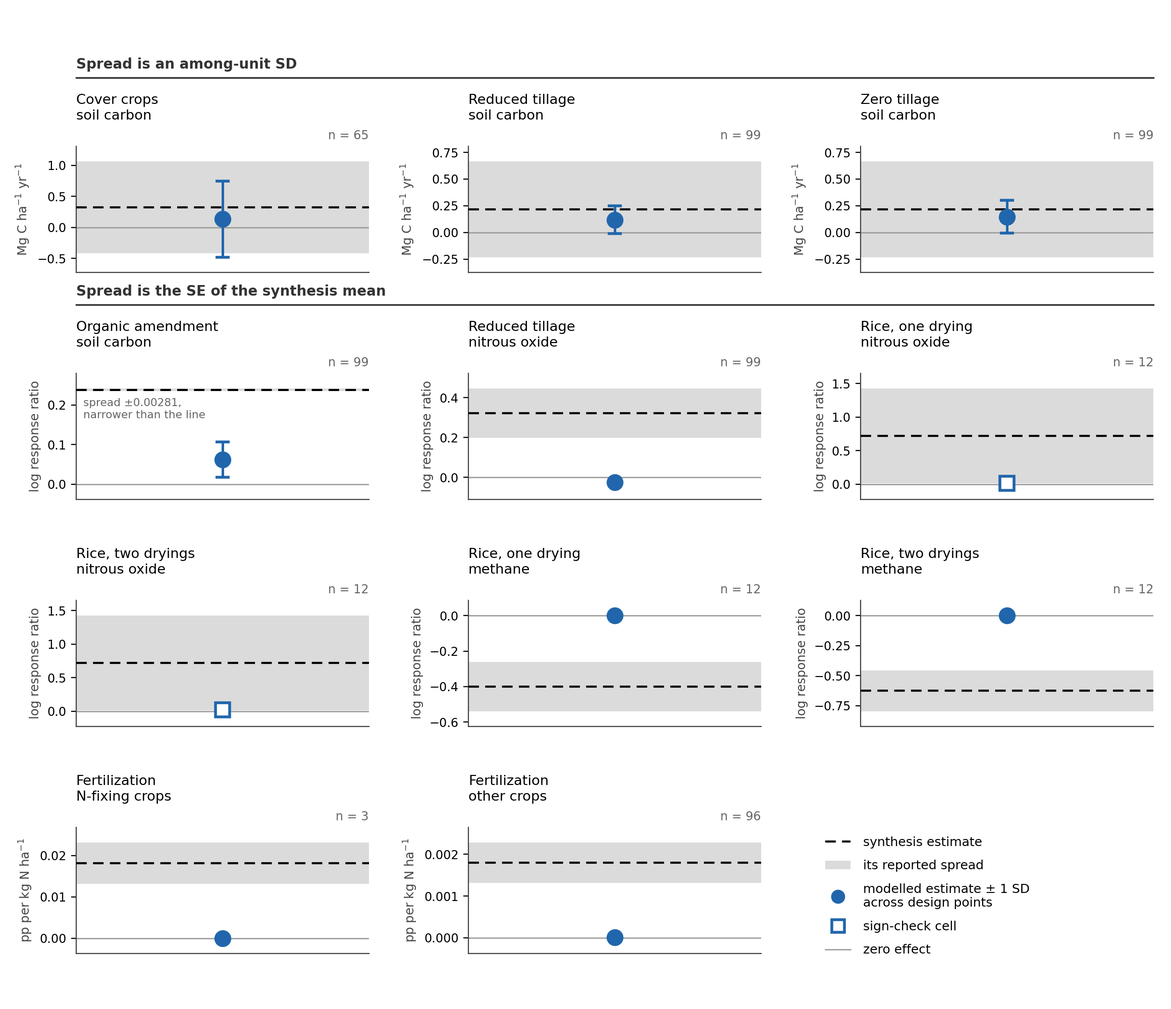
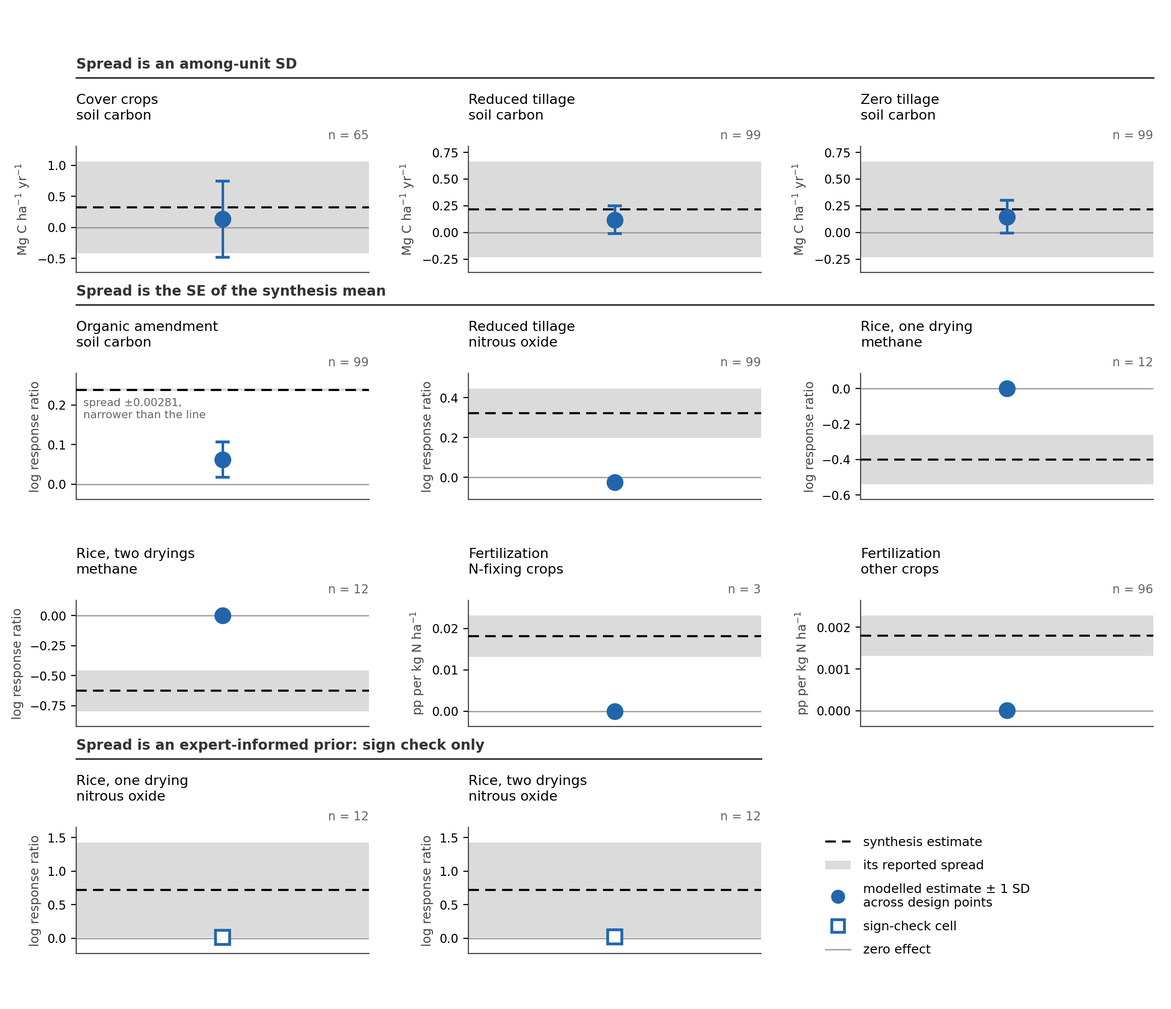
Built site for gh-pages

diff --git a/reports/statewide_effects.html b/reports/statewide_effects.html
@@ -6,7 +6,7 @@
 
 <meta name="viewport" content="width=device-width, initial-scale=1.0, user-scalable=yes">
 
-<meta name="dcterms.date" content="2026-09-21">
+<meta name="dcterms.date" content="2026-09-23">
 
 <title>Calibration - Statewide Management Treatment Effect Benchmark</title>
 <style>
@@ -163,7 +163,6 @@ ul.task-list li input[type="checkbox"] {
 <header id="title-block-header" class="quarto-title-block default">
 <div class="quarto-title">
 <h1 class="title d-none d-lg-block">Statewide Management Treatment Effect Benchmark</h1>
-<p class="subtitle lead">MAGiC Modeling Framework (Task 2) – supporting report</p>
 </div>
 
 
@@ -174,7 +173,7 @@ ul.task-list li input[type="checkbox"] {
     <div>
     <div class="quarto-title-meta-heading">Published</div>
     <div class="quarto-title-meta-contents">
-      <p class="date">September 21, 2026</p>
+      <p class="date">September 23, 2026</p>
     </div>
   </div>
   
@@ -188,8 +187,9 @@ ul.task-list li input[type="checkbox"] {
 <h2 class="anchored" data-anchor-id="overview">Overview</h2>
 <p>This report compares modelled management practice effects at the statewide cropland design points against effects summarised from the published literature, and records which comparisons the model can and cannot presently support.</p>
 <p>It is a forward comparison at fixed parameters. No parameter was adjusted to any target here, no evidence was weighted into a likelihood, and no inventory estimate is produced. The site-level parameter calibration is reported separately; this report carries that parameterization forward to the statewide design points and asks whether the resulting practice effects are consistent with the synthesis evidence.</p>
-<p>We ran six management practices as paired treatment and reference arms at 99 design points over 2016 to 2023, covering soil carbon, nitrous oxide and methane. Thirteen practice-by-outcome cells carry a synthesis estimate. Eleven of them have a modelled estimate to compare against it; the other two have no runnable treatment pair.</p>
-<p>The result divides cleanly by outcome. <strong>Soil carbon responds to all three carbon-adding practices, in the right direction and at roughly half the reported magnitude. The greenhouse gas cells are near zero, of the wrong sign, or produce no response at all.</strong> Most of the gas discrepancies can be traced to the model formulation rather than to parameter values, which is the most useful thing this benchmark tells us: they will not be resolved by recalibration.</p>
+<p>We ran five management practices as paired treatment and reference arms at 99 design points over 2016 to 2023, covering soil carbon, nitrous oxide and methane. A sixth, conversion from annual to perennial cropping, carries a target but has no arm in the event package and was not run.</p>
+<p>The target table holds 18 usable rows. Eleven of them are represented here across thirteen scored rows, since tillage soil carbon and rice nitrous oxide each carry two arms against one target. Eleven of the thirteen are compared against their target. Of the other two, the annual-to-perennial row has no runnable treatment pair, and the Mediterranean emission factor level is reported without a discrepancy because the modelled quantity is only an upper bound on what that target measures. Of the seven rows not represented, four are the finer fertilization crop classes set aside in favour of the nitrogen-fixing split and three are rice drying classes that were not staged.</p>
+<p>The result divides cleanly by outcome. <strong>Soil carbon responds in every cell tested, in the right direction: cover cropping and the two tillage practices at roughly half the reported magnitude, the organic amendment at about a quarter. The greenhouse gas cells are near zero, of the wrong sign, or produce no response at all.</strong> Most of the gas discrepancies can be traced to the model formulation rather than to parameter values, which is the most useful thing this benchmark tells us: they will not be resolved by recalibration.</p>
 <section id="summary-of-findings" class="level3">
 <h3 class="anchored" data-anchor-id="summary-of-findings">Summary of findings</h3>
 <table class="table">
@@ -222,9 +222,9 @@ ul.task-list li input[type="checkbox"] {
 </tr>
 <tr class="odd">
 <td>Nitrous oxide, tillage</td>
-<td>Wrong sign</td>
-<td>Model lowers N<sub>2</sub>O at all 99 design points against a positive synthesis estimate; tillage enters only as a respiration multiplier</td>
-<td>Review the tillage N<sub>2</sub>O pathway; a physical mechanism is required</td>
+<td>Wrong sign for the class matched</td>
+<td>Model lowers N<sub>2</sub>O at all 99 design points against the under-10-year estimate of +0.322 this cell is matched to. van Kessel reports −0.419 at 10 years or more, so the sign agrees with the long-duration class</td>
+<td>Name the adoption age matched; review the tillage N<sub>2</sub>O pathway</td>
 </tr>
 <tr class="even">
 <td>Nitrous oxide, fertilization</td>
@@ -245,10 +245,16 @@ ul.task-list li input[type="checkbox"] {
 <td>Represent flooding and draining explicitly; the prescribed drying never dries the soil</td>
 </tr>
 <tr class="odd">
-<td>Methane, tillage; annual to perennial</td>
+<td>Methane, tillage</td>
+<td>Out of scope, not absent</td>
+<td>The arm exists and the model responds: at the twelve rice-soil design points zero tillage raises methane, median log ratio +0.011, against a reported −0.6 uptake enhancement. Methane was scoped to rice systems, so the target is not in use</td>
+<td>Score it if methane scope is ever widened beyond rice</td>
+</tr>
+<tr class="even">
+<td>Soil carbon, annual to perennial</td>
 <td>No runnable pair</td>
-<td>The event package contains no arm expressing these treatments</td>
-<td>Stage the arms, or record the cells as out of scope for this matrix</td>
+<td>The event package contains no arm expressing this conversion</td>
+<td>Stage the arm, or record the cell as out of scope for this matrix</td>
 </tr>
 </tbody>
 </table>
@@ -288,11 +294,11 @@ ul.task-list li input[type="checkbox"] {
 </tr>
 <tr class="even">
 <td>design points</td>
-<td>99</td>
+<td>99 scored of 100 designed</td>
 </tr>
 <tr class="odd">
 <td>runs</td>
-<td>958 arm runs forming 683 eligible pairs</td>
+<td>958 arm runs forming 683 eligible pairs of 690 designed</td>
 </tr>
 <tr class="even">
 <td>parameters</td>
@@ -304,8 +310,8 @@ ul.task-list li input[type="checkbox"] {
 </tr>
 </tbody>
 </table>
-<p>Photosynthesis optimum, soil organic matter respiration rate, litter breakdown rate, the fraction of litter respired, the soil respiration temperature sensitivity, the carbon-to-nitrogen decomposition constant and the anaerobic transfer exponent are run-level and pinned in the run configuration. They are written into the default parameter file and dropped from the trait samples, so a plant functional type posterior cannot overwrite them. All 958 arm runs therefore carry identical parameter values.</p>
-<p>Of the 683 pairs, 495 are prepared from the management record directly and 188 are prepared with stated assumptions where the record was incomplete. Every pair passed the pairing check.</p>
+<p>Photosynthesis optimum, soil organic matter respiration rate, litter breakdown rate, the fraction of litter respired, the soil respiration temperature sensitivity, the carbon-to-nitrogen decomposition constant and the anaerobic transfer exponent are run-level and pinned in the run configuration. They are written into the default parameter file and dropped from the trait samples, so a plant functional type posterior cannot overwrite them. All 958 arm runs therefore carry identical values for those seven. The remaining traits are plant functional type medians and do vary across design points: the panel spans six vegetation types, of which almond covers 69 design points and annual row crops 14, and three soil types, of which 85 points are the generic soil and 12 the rice soil. Within any one pair every parameter is identical, which is what the paired design requires.</p>
+<p>One design point of the 100 was dropped before configuration because its initial conditions carried no usable pools, removing 10 arm runs and 7 pairs. Of the 683 pairs that remain, 495 are prepared from the management record directly and 188 are prepared with stated assumptions where the record was incomplete. Every remaining pair passed the pairing check.</p>
 </section>
 <section id="relationship-to-the-site-level-calibration" class="level3">
 <h3 class="anchored" data-anchor-id="relationship-to-the-site-level-calibration">Relationship to the site-level calibration</h3>
@@ -357,7 +363,7 @@ ul.task-list li input[type="checkbox"] {
 <p>Three things are visible here that the aggregate alone conceals.</p>
 <p><strong>The distributions are right-skewed, so the mean sits above the median in every soil carbon cell.</strong> Cover crops have a median of 0.041 against an aggregate of 0.132; zero tillage a median of 0.102 against an aggregate of 0.146. The aggregate is carried by a minority of strongly responding design points while the typical design point responds far less. Reporting the aggregate alone would overstate how uniformly the model produces a cover crop effect.</p>
 <p><strong>The sign is consistent almost everywhere.</strong> Cover crops are positive at 97 percent of design points, and the organic amendment and both tillage soil carbon cells at 100 percent. Reduced tillage nitrous oxide is negative at every one of its 99 design points, with the largest value −0.0055, so the disagreement with the positive synthesis estimate is not caused by averaging positive and negative site responses.</p>
-<p><strong>The rice methane rows are a spike at zero.</strong> Median and both quartiles are exactly zero for both cells. The two arms are bit-identical in every year at 9 of 12 design points for a single drying and 8 of 12 for two dryings.</p>
+<p><strong>The rice methane rows are a spike at zero.</strong> Median and both quartiles are exactly zero for both cells. The scored quantity is the flooded-season total, and the two arms give an identical season total at 9 of 12 design points for a single drying and 8 of 12 for two dryings. Taking the whole year rather than the flooded season, the arms are bit-identical in every year at 7 and 6 of 12.</p>
 </section>
 <section id="benchmark-coverage" class="level3">
 <h3 class="anchored" data-anchor-id="benchmark-coverage">Benchmark coverage</h3>
@@ -368,7 +374,9 @@ ul.task-list li input[type="checkbox"] {
 </figure>
 </div>
 <p>A model that runs and returns no response has <strong>failed</strong> the check it was set; it has not escaped it, and further investigation is warranted. The figure draws that case in the failure colour rather than greying it out. The two rice methane cells are the instance, and they matter more than their size suggests: the response of methane to alternate wetting and drying in rice is the outcome this part of the evidence set was assembled to test.</p>
-<p>Two cells are genuinely empty rather than failing. Reduced tillage on methane and the annual-to-perennial conversion have no runnable treatment pair, so there is no modelled estimate to place. Three fertilization contrast arms were run and produced effects, but the evidence table contains no fertilization contrast target for them to be scored against; they are retained in the run outputs and left unscored.</p>
+<p>One cell is genuinely empty rather than failing. The annual-to-perennial conversion has no runnable treatment pair, so there is no modelled estimate to place.</p>
+<p>Tillage on methane is a different case and should not be read as empty. The zero tillage arm is the same one scoring the tillage soil carbon and nitrous oxide cells, and the model does respond: methane in SIPNET is a rate times the soil carbon pool times temperature and moisture terms, and tillage acts on that pool through heterotrophic respiration. Methane is non-zero only at the twelve rice-soil design points, and at those twelve zero tillage raises it, log ratios of +0.005 to +0.021 with a median of +0.011, against a reported −0.6 which is an uptake enhancement. The cell is out of scope because methane was scoped to rice systems, and its target row is marked not for use; it is not a cell the model failed to reach.</p>
+<p>The three fertilization contrast arms were run and produced effects, and they are scored jointly rather than individually: the target is the slope of the emission factor against nitrogen rate, formed across the arms, so no single arm carries a target of its own. Appendix A reports that slope for the nitrogen-fixing and other crop classes.</p>
 </section>
 <section id="how-the-differences-develop" class="level3">
 <h3 class="anchored" data-anchor-id="how-the-differences-develop">How the differences develop</h3>
@@ -378,7 +386,7 @@ ul.task-list li input[type="checkbox"] {
 <p></p><figcaption class="figure-caption">Figure&nbsp;5: Paired difference at every design point, three representative cells. The upper strip gives the share of design points whose two arms differ in that year, read from the event files, so it shows when a difference can move at all. Below, each thin line is one design point’s treatment minus reference arm; the heavy line is the median and the band the interquartile range.</figcaption><p></p>
 </figure>
 </div>
-<p>The exposure strip explains a good deal. <strong>Cover crop exposure is not uniform across the window</strong>: 34 percent of design points carry a cover crop in 2016, rising to 80 percent by 2022, with a median of 6 cover years per design point and a range of 1 to 8. The soil carbon difference is correspondingly flat through 2016 to 2018 and separates from zero only as exposure rises. Rice drying never exceeds 67 percent of its design points in any year. Zero tillage is the only practice applied at every design point in every year, which is why its nitrous oxide response is the tightest bundle in the figure.</p>
+<p>The exposure strip explains a good deal. <strong>Cover crop exposure is not uniform across the window</strong>: 34 percent of its design points carry a cover crop in 2016, rising to 80 percent by 2022, with a median of 6 cover years per design point and a range of 1 to 8. The soil carbon difference is correspondingly flat through 2016 to 2018 and separates from zero only as exposure rises. Rice drying never exceeds 67 percent of its design points in any year. Cover cropping and rice drying are the only practices with uneven exposure; both tillage arms, all three fertilization arms and the organic amendment differ from their reference at every design point in every year, which is why the zero tillage nitrous oxide response is the tightest bundle in the figure.</p>
 </section>
 </section>
 <section id="interpretation" class="level2">
@@ -416,7 +424,7 @@ ul.task-list li input[type="checkbox"] {
 <tr class="even">
 <td>reduced tillage N<sub>2</sub>O</td>
 <td>indirect respiration effect only</td>
-<td>produced with the wrong sign</td>
+<td>negative everywhere; wrong sign for the under-10-year class matched</td>
 </tr>
 <tr class="odd">
 <td>fertilization N<sub>2</sub>O emission factor</td>
@@ -424,20 +432,25 @@ ul.task-list li input[type="checkbox"] {
 <td>target response not generated</td>
 </tr>
 <tr class="even">
+<td>tillage methane</td>
+<td>rate times soil carbon, no direct tillage term</td>
+<td>responds through the soil carbon pool, opposite in sign; cell out of scope</td>
+</tr>
+<tr class="odd">
 <td>rice N<sub>2</sub>O</td>
 <td>mineral nitrogen and moisture</td>
 <td>direction reproduced, magnitude small</td>
 </tr>
-<tr class="odd">
+<tr class="even">
 <td>rice methane</td>
 <td>moisture-gated methane production</td>
 <td>no response; check fails</td>
 </tr>
 </tbody>
 </table>
-<p><strong>Soil carbon responds; the gases do not.</strong> All three carbon-adding practices raise modelled soil carbon in the right direction. Every nitrous oxide and methane cell is near zero, of the wrong sign, or a null. The failures are concentrated on one side of the model.</p>
+<p><strong>Soil carbon responds; the gases do not.</strong> All four soil carbon cells move in the direction the evidence reports. Every nitrous oxide and methane cell is near zero, of the wrong sign, or a null. The failures are concentrated on one side of the model.</p>
 <p><strong>The amendment cell restates the calibration residual.</strong> Amendment carbon enters SIPNET as fresh litter, with no partition to a more persistent soil pool. The site-level calibration identified the same pathway; the statewide benchmark reproduces the limitation at a larger scale, and the same model change addresses both.</p>
-<p><strong>Tillage nitrous oxide is a mechanism problem.</strong> Tillage enters as a multiplier on heterotrophic respiration. There is no compaction, pore-space or oxygen-transport pathway through which reduced tillage could raise denitrification, which is why the modelled effect is small and of the wrong sign at every design point. The consistency across all 99 design points confirms this is structural rather than a parameter artefact.</p>
+<p><strong>Tillage nitrous oxide is a mechanism problem.</strong> Tillage enters as a multiplier on heterotrophic respiration. There is no compaction, pore-space or oxygen-transport pathway through which reduced tillage could raise denitrification, which is why the modelled effect is small and negative at every design point. The cell is matched to the under-10-year adoption class, because the runs sit roughly five years after conversion, and that class reports +0.322. van Kessel finds the response flips with duration and gives −0.419 for 10 years or more, so the modelled sign agrees with the long-duration class and the disagreement is with the class we matched. Either way the magnitude is an order of magnitude short, and the consistency across all 99 design points confirms this is structural rather than a parameter artefact.</p>
 <p><strong>The fertilization dose-response cannot be produced.</strong> Nitrous oxide is first order in the mineral nitrogen pool, so induced emissions are proportional to nitrogen applied and the emission factor is constant in nitrogen rate. The synthesis estimate is a rise of the emission factor with rate. Adjusting the existing parameter cannot generate that; an additional nonlinear mechanism would be required.</p>
 <p><strong>Rice methane is a water balance result, not evidence about drying.</strong> The prescribed drying events do not produce a realized loss of saturation. Soil moisture stays above water holding capacity throughout the window in both arms, with a minimum of 1.02 times capacity, so the clipped water fraction is one and the anaerobic index sits at its ceiling in the drying arm exactly as in the irrigated reference. The methane moisture response is that index raised to the anaerobic transition exponent, and one raised to any exponent is one, so no value of that exponent can recover a contrast. Two thirds to three quarters of rice design points returned an effect of exactly zero. This should be read as the comparison not having been made, and as a check the model failed, rather than as evidence that drying events do not affect methane.</p>
 <p><strong>Aggregating first matters.</strong> Because the model side is summarised before comparison, a cell can agree in aggregate while the underlying site distribution is wide or skewed. The cover crop cell agrees with its target and is simultaneously the least uniform cell in the matrix.</p>
@@ -447,12 +460,12 @@ ul.task-list li input[type="checkbox"] {
 <ol type="1">
 <li>This is a single ensemble member at the parameter medians. The spread reported per cell is variation across design points at fixed parameters and contains no parameter uncertainty, so no uncertainty statement about practice effects should be taken from it.</li>
 <li>Nitrous oxide and methane outputs are uncalibrated. No nitrogen or methane parameter was estimated in the site-level calibration, and most of the scored cells are gas cells.</li>
-<li>The reported nitrous oxide quantity is total mineral nitrogen volatilization rather than a partitioned N<sub>2</sub>O flux, so its absolute level is not comparable with a measured emission factor. The dose-response result is a ratio and is unaffected. The induced emission factor has not equilibrated over the window, rising through to the final year without reaching a plateau.</li>
+<li>The reported nitrous oxide quantity is total mineral nitrogen volatilization rather than a partitioned N<sub>2</sub>O flux, so its absolute level is not comparable with a measured emission factor. The dose-response result is a ratio, and is unaffected only if the N<sub>2</sub>O share of volatilization does not itself change with nitrogen rate; if that share varies with rate, a real N<sub>2</sub>O dose response could exist while the quantity computed here stays flat. This assumption is untested and the fertilization conclusion rests on it. For the same reason the modelled emission factor level is an upper bound on the measured quantity, so the Mediterranean emission factor row is reported without a discrepancy: a bound lying above the target settles nothing. The induced emission factor has not equilibrated over the window, rising through to the final year without reaching a plateau.</li>
 <li>The soil carbon parameters come from a single field trial in one cropping system. Applying them across the full range of California cropland is extrapolation.</li>
 <li>Targets are global syntheses, not California-specific. The organic amendment target is partly comparable at best, and for the fertilization cells the published crop classes match this panel poorly, since most fertilized design points are orchard or pasture and the N-fixing class carries only three.</li>
 <li>Agreement in a cell is agreement of aggregates. Per-site effects vary widely, and in the cover crop cell the aggregate is not representative of the typical design point.</li>
-<li>Tillage soil carbon and both rice outcomes each map two arms onto one target cell. Those rows share a target and are not independent estimates of it.</li>
-<li>Two cells returned no usable comparison. Absence of a result there is not evidence of agreement.</li>
+<li>Tillage soil carbon and rice nitrous oxide each map two arms onto one target cell. Those rows share a target and are not independent estimates of it. The two rice methane arms are matched to different drying classes and do not share a target.</li>
+<li>One cell, the annual-to-perennial conversion, returned no usable comparison. Absence of a result there is not evidence of agreement.</li>
 <li>No site in the companion site-level dataset carries both soil carbon and a greenhouse gas flux at useful density, so a parameter set that reproduces soil carbon has not been tested against methane in the same system. There is no measured practice contrast anywhere in the Delta and none under rice, which is precisely where this synthesis evidence carries the weight.</li>
 </ol>
 </section>
@@ -476,7 +489,7 @@ ul.task-list li input[type="checkbox"] {
 </section>
 <section id="appendix-a.-scorecard" class="level2">
 <h2 class="anchored" data-anchor-id="appendix-a.-scorecard">Appendix A. Scorecard</h2>
-<p>All thirteen rows of the scored target table, including the cells with no runnable pair and the cell not scored. The standardised discrepancy must be read together with what the spread describes. Rows shaded grey fail the check: a discrepancy beyond two spreads, a model that runs and returns no response, or no runnable pair.</p>
+<p>The thirteen scored rows, plus the tillage methane row, which is recorded but is not a target. The standardised discrepancy must be read together with what the spread describes, and the last column states the outcome of each check: a discrepancy beyond two spreads, a model that runs and returns no response, no runnable pair, or a comparison the reported quantity cannot support.</p>
 <table class="table">
 <colgroup>
 <col style="width: 9%">
@@ -637,14 +650,25 @@ ul.task-list li input[type="checkbox"] {
 </tr>
 <tr class="odd">
 <td>Reduced tillage × CH<sub>4</sub></td>
-<td>not scored</td>
+<td>not a target</td>
 <td style="text-align: right;">−0.600</td>
 <td style="text-align: right;">0.100</td>
 <td>SE of the synthesis mean</td>
+<td style="text-align: right;">+0.011</td>
 <td style="text-align: right;">–</td>
+<td style="text-align: right;">12</td>
+<td>out of scope; methane scoped to rice</td>
+</tr>
+<tr class="even">
+<td>Fertilization × N<sub>2</sub>O, EF level</td>
+<td>not comparable</td>
+<td style="text-align: right;">0.500</td>
+<td style="text-align: right;">0.0612</td>
+<td>SE of the synthesis mean</td>
+<td style="text-align: right;">3.57</td>
 <td style="text-align: right;">–</td>
-<td style="text-align: right;">0</td>
-<td>no runnable pair</td>
+<td style="text-align: right;">99</td>
+<td>model side is an upper bound</td>
 </tr>
 </tbody>
 </table>
@@ -653,7 +677,9 @@ ul.task-list li input[type="checkbox"] {
 <h2 class="anchored" data-anchor-id="references">References</h2>
 <p>Jiang, Y., et al.&nbsp;(2019). Water management to mitigate the global warming potential of rice systems. <em>Global Change Biology</em>.</p>
 <p>Longfritz, M., Sacks, W. J., Moore, D. J. P., Zobitz, J. M., Braswell, B. H., Schimel, D. S., Kooper, R., Dietze, M. C., Fer, I., Black, C., and LeBauer, D. S. (2026). SIPNET: Simple Photosynthesis and Evapotranspiration Model (v2.2.0) [Software]. Zenodo. https://doi.org/10.5281/zenodo.22286320</p>
+<p>Bai, X., Tang, J., Wang, W., et al.&nbsp;(2023). <em>Catena</em>, 231, 107343. https://doi.org/10.1016/j.catena.2023.107343 – the organic amendment soil carbon target, a global synthesis over 424 studies and 1972 observations.</p>
 <p>Poeplau, C., and Don, A. (2015). Carbon sequestration in agricultural soils via cultivation of cover crops: a meta-analysis. <em>Agriculture, Ecosystems and Environment</em>, 200, 33–41. https://doi.org/10.1016/j.agee.2014.10.024</p>
+<p>Six, J., et al.&nbsp;(2004). <em>Global Change Biology</em>, 10(2), 155–160. https://doi.org/10.1111/j.1529-8817.2003.00730.x – the tillage methane estimate, recorded but not used as a target.</p>
 <p>Sun, W., et al.&nbsp;(2020). Climate drives global soil carbon sequestration and crop yield changes under conservation agriculture. <em>Global Change Biology</em>.</p>
 <p>van Kessel, C., Venterea, R., Six, J., Adviento-Borbe, M. A., Linquist, B., and van Groenigen, K. J. (2013). Climate, duration, and N placement determine N<sub>2</sub>O emissions in reduced tillage systems: a meta-analysis. <em>Global Change Biology</em>, 19(1), 33–44. https://doi.org/10.1111/j.1365-2486.2012.02779.x</p>
 <p>The source for every target cell is recorded in the curated evidence table, which is the authoritative mapping; the works above are those cited in the text.</p>

diff --git a/reports/site_calibration.html b/reports/site_calibration.html
@@ -6,7 +6,7 @@
 
 <meta name="viewport" content="width=device-width, initial-scale=1.0, user-scalable=yes">
 
-<meta name="dcterms.date" content="2026-09-21">
+<meta name="dcterms.date" content="2026-09-23">
 
 <title>Calibration - Site-Level Soil Carbon Parameter Calibration</title>
 <style>
@@ -167,7 +167,7 @@ ul.task-list li input[type="checkbox"] {
     <div>
     <div class="quarto-title-meta-heading">Published</div>
     <div class="quarto-title-meta-contents">
-      <p class="date">September 21, 2026</p>
+      <p class="date">September 23, 2026</p>
     </div>
   </div>
   
